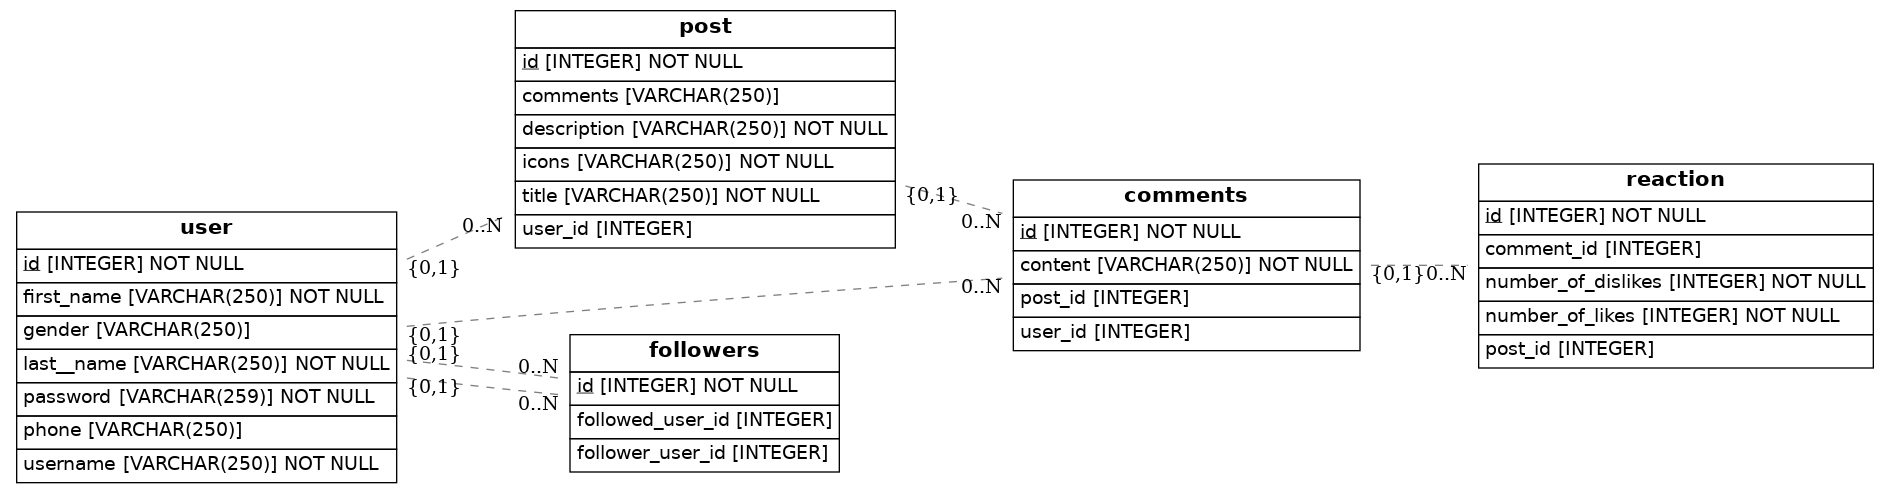
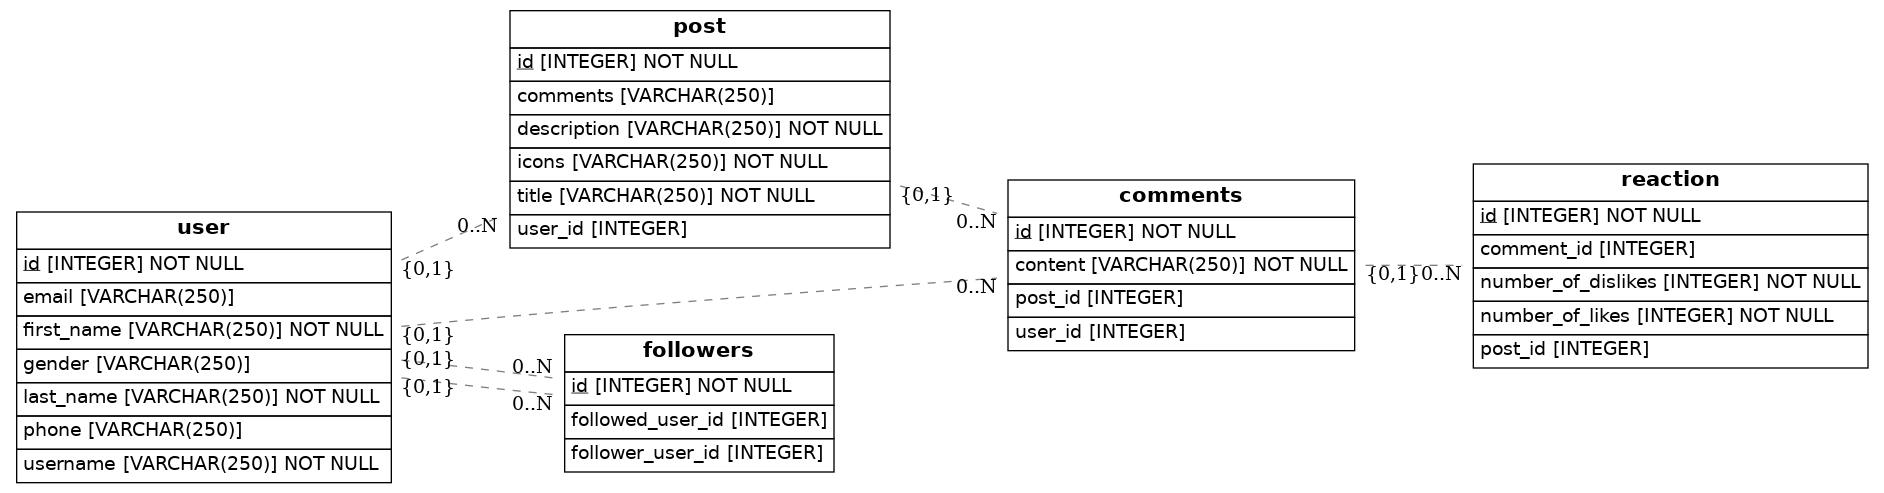
new update my project

diff --git a/src/models.py b/src/models.py
@@ -9,19 +9,17 @@ Base = declarative_base()
 
 class User(Base):
     __tablename__ = 'user'
- 
-    id = Column (Integer, primary_key=True)
+    id = Column(Integer, primary_key=True)
     username = Column(String(250), nullable=False)
     first_name = Column(String(250), nullable=False)
-    last__name = Column(String(250), nullable=False)
-    password = Column(String(259), nullable=False)
+    last_name = Column(String(250), nullable=False)
     phone = Column(String(250))
+    email = Column(String(250))
     gender = Column(String(250))
 
     def __repr__(self):
         return '<User %r>' % self.username
     
-
 
 
 class Post(Base):
@@ -33,6 +31,7 @@ class Post(Base):
     comments = Column(String(250))
     user_id = Column(Integer, ForeignKey('user.id'))
     user = relationship(User)
+
 
     def __repr__(self):
         return '<Post %r>' % self.title
